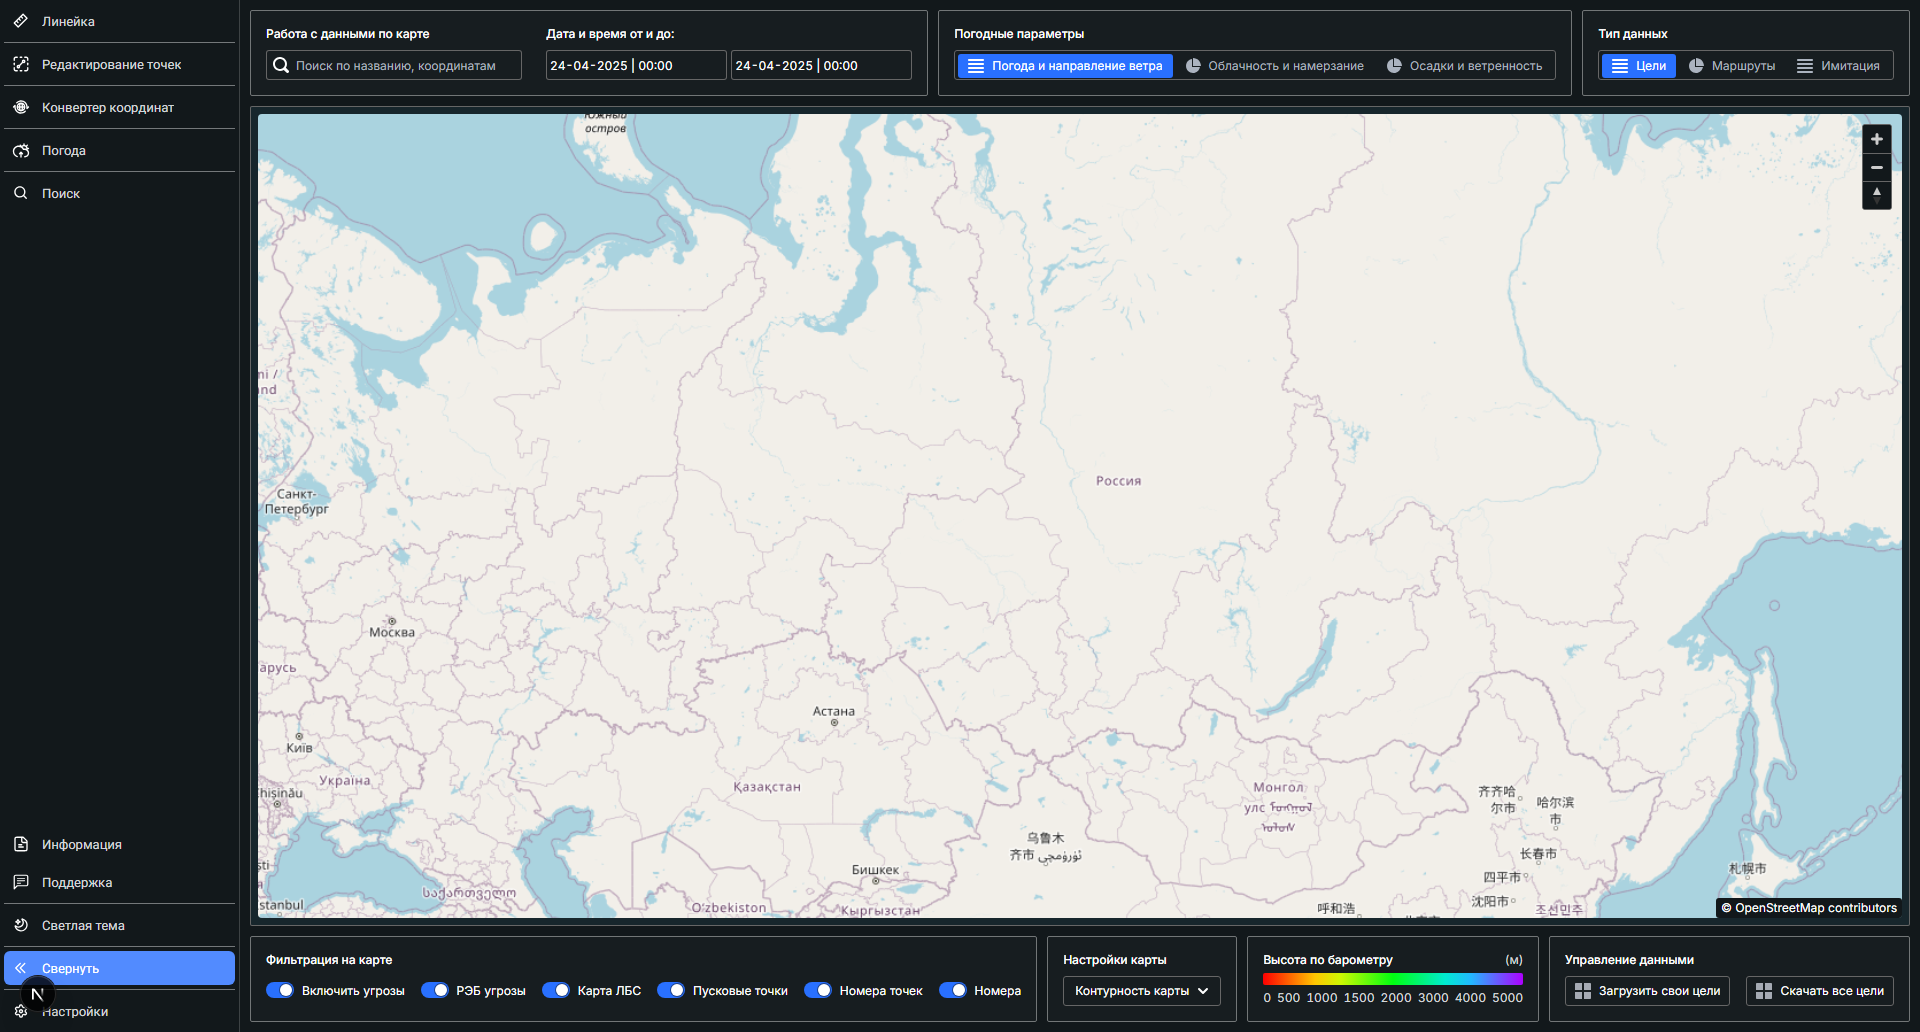
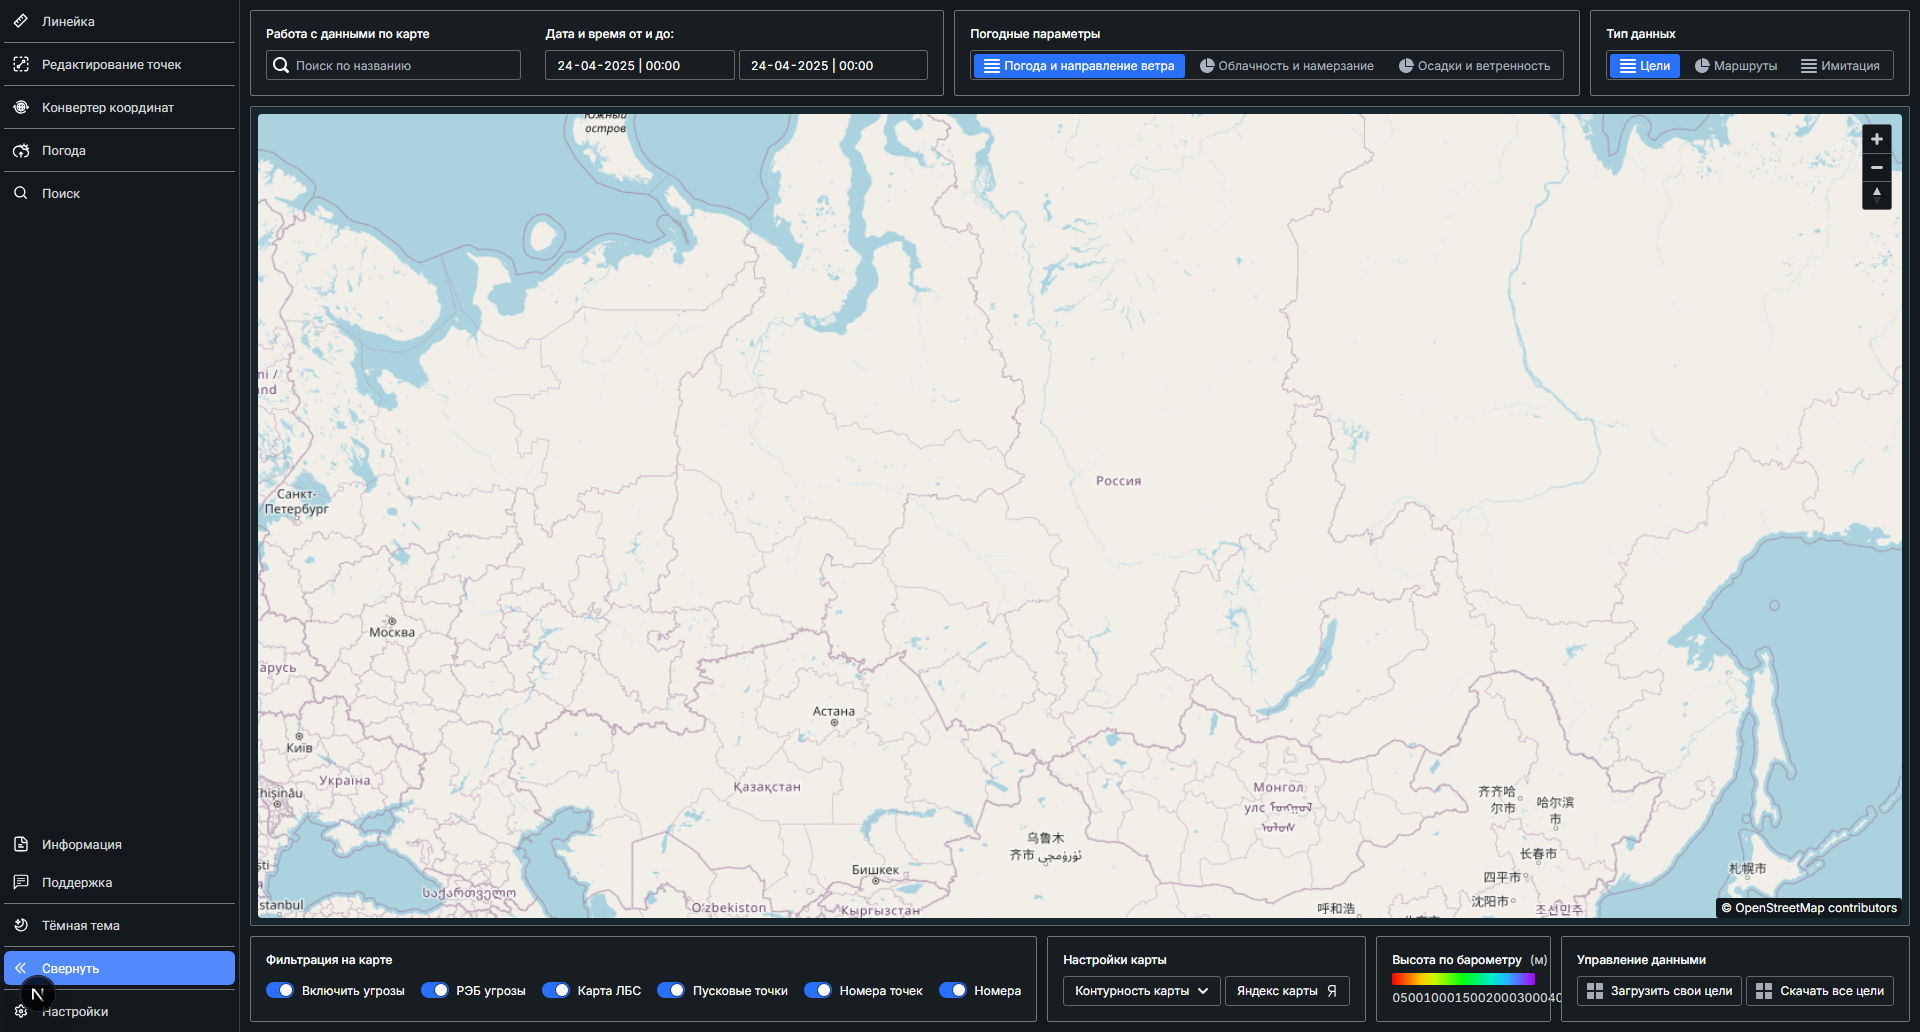
feat(routes): add Яндекс-карты provider control to the routes bottom panel
The Маршруты (bar) "Настройки карты" card now shows the second map-provider
control "Яндекс карты" beside "Контурность карты", matching the Figma эталон.
Extend the shared SelectControl with an optional `iconSrc` that renders a
manifest SVG brand glyph (yandex.svg) in place of the chevron; SelectField
forwards it. The flexible "Высота по барометру" legend auto-compresses to absorb
the wider card.

Verified at 1920 with the rail collapsed (50px) and expanded (240px): control
widths 158/125px, 4px gap, 86px card, no horizontal page overflow. Add a tracked
routes-rail-collapsed visual baseline and refresh routes-rail-expanded.

Reviewed by component_reuse / code_quality / frozen_decisions guardians plus a
Codex adversarial pass (collapsed baseline added per its TC-1 finding). Green via
`CI=1 pnpm codex:ship`.

diff --git a/src/components/controls/SelectControl/SelectControl.tsx b/src/components/controls/SelectControl/SelectControl.tsx
@@ -13,6 +13,11 @@ import styles from './SelectControl.module.scss';
  * Width is contextual: pass `fill` to span the container (side panels); omit it
  * to size to content (top-control toolbar). Supply either `ariaLabel` (toolbar)
  * or `ariaLabelledBy` (side-panel field label) for the accessible name.
+ *
+ * `iconSrc` swaps the default chevron-down overlay for a brand/manifest SVG glyph
+ * (e.g. the map-provider "Яндекс карты" control shows the Yandex glyph), rendered
+ * via <img> like the map-icon manifest; the native select still drives the
+ * dropdown behaviour and a11y underneath.
  */
 export function SelectControl({
   value,
@@ -23,6 +28,7 @@ export function SelectControl({
   testId,
   ariaLabel,
   ariaLabelledBy,
+  iconSrc,
 }: {
   value: string;
   options?: readonly string[];
@@ -33,6 +39,8 @@ export function SelectControl({
   testId?: string;
   ariaLabel?: string;
   ariaLabelledBy?: string;
+  /** Manifest/brand SVG glyph shown instead of the default chevron-down. */
+  iconSrc?: string;
 }) {
   return (
     <div className={cx(styles.selectShell, fill && styles.selectShellFill)}>
@@ -49,7 +57,19 @@ export function SelectControl({
         fill={fill}
         options={options && options.length ? [...options] : [value]}
       />
-      <Icon className={styles.selectShellIcon} icon="chevron-down" size={16} />
+      {iconSrc ? (
+        <img
+          alt=""
+          aria-hidden="true"
+          className={styles.selectShellIcon}
+          draggable={false}
+          height={16}
+          src={iconSrc}
+          width={16}
+        />
+      ) : (
+        <Icon className={styles.selectShellIcon} icon="chevron-down" size={16} />
+      )}
     </div>
   );
 }

diff --git a/src/components/TabTopControls/controls.tsx b/src/components/TabTopControls/controls.tsx
@@ -168,13 +168,25 @@ export function SelectField({
   options,
   ariaLabel,
   fill,
+  iconSrc,
 }: {
   value: string;
   options: readonly string[];
   ariaLabel: string;
   fill?: boolean;
+  /** Brand/manifest SVG glyph shown instead of the chevron (e.g. map provider). */
+  iconSrc?: string;
 }) {
-  return <SelectControl ariaLabel={ariaLabel} dense fill={fill} options={options} value={value} />;
+  return (
+    <SelectControl
+      ariaLabel={ariaLabel}
+      dense
+      fill={fill}
+      iconSrc={iconSrc}
+      options={options}
+      value={value}
+    />
+  );
 }
 
 // Blueprint Switch + label (e.g. satellite data sources).

diff --git a/src/components/TabBottomPanel/TabBottomPanel.tsx b/src/components/TabBottomPanel/TabBottomPanel.tsx
@@ -13,6 +13,7 @@ import {
   SelectField,
   SwitchToggle,
 } from '@/components/TabTopControls/controls';
+import { mapIconSrc } from '@/components/TabTopControls/mapIcons';
 import { cx } from '@/lib/cx';
 import styles from './TabBottomPanel.module.scss';
 
@@ -187,11 +188,17 @@ function RoutesBottomPanel() {
       />
 
       <ControlCard ariaLabel="Настройки карты">
-        <ControlField title="Настройки карты">
+        <ControlField dense title="Настройки карты">
           <SelectField
             ariaLabel="Режим карты"
             options={['Контурность карты']}
             value="Контурность карты"
+          />
+          <SelectField
+            ariaLabel="Тип карты"
+            iconSrc={mapIconSrc('yandex')}
+            options={['Яндекс карты']}
+            value="Яндекс карты"
           />
         </ControlField>
       </ControlCard>